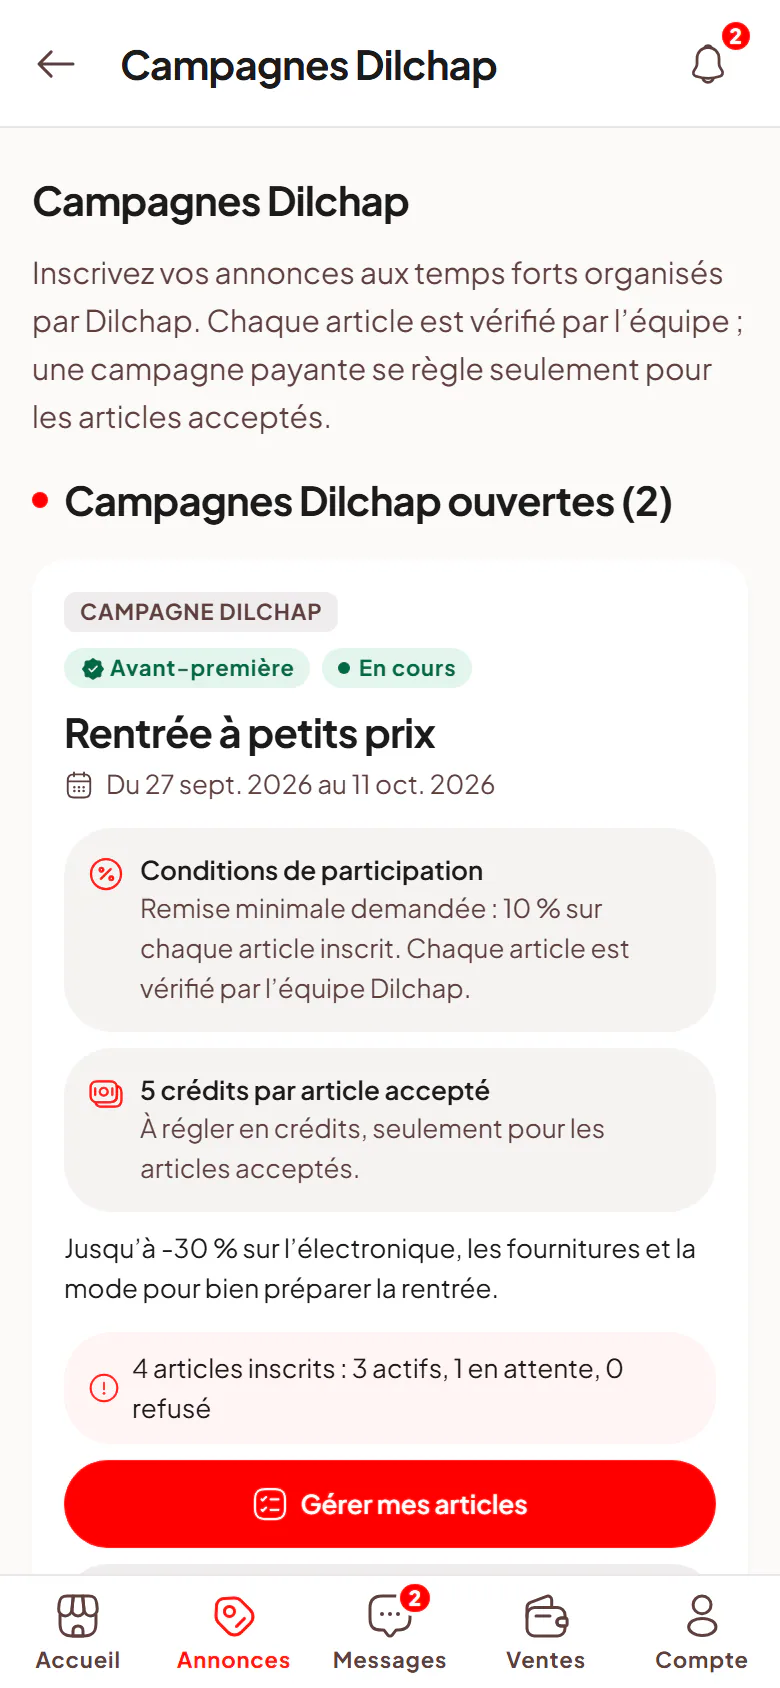
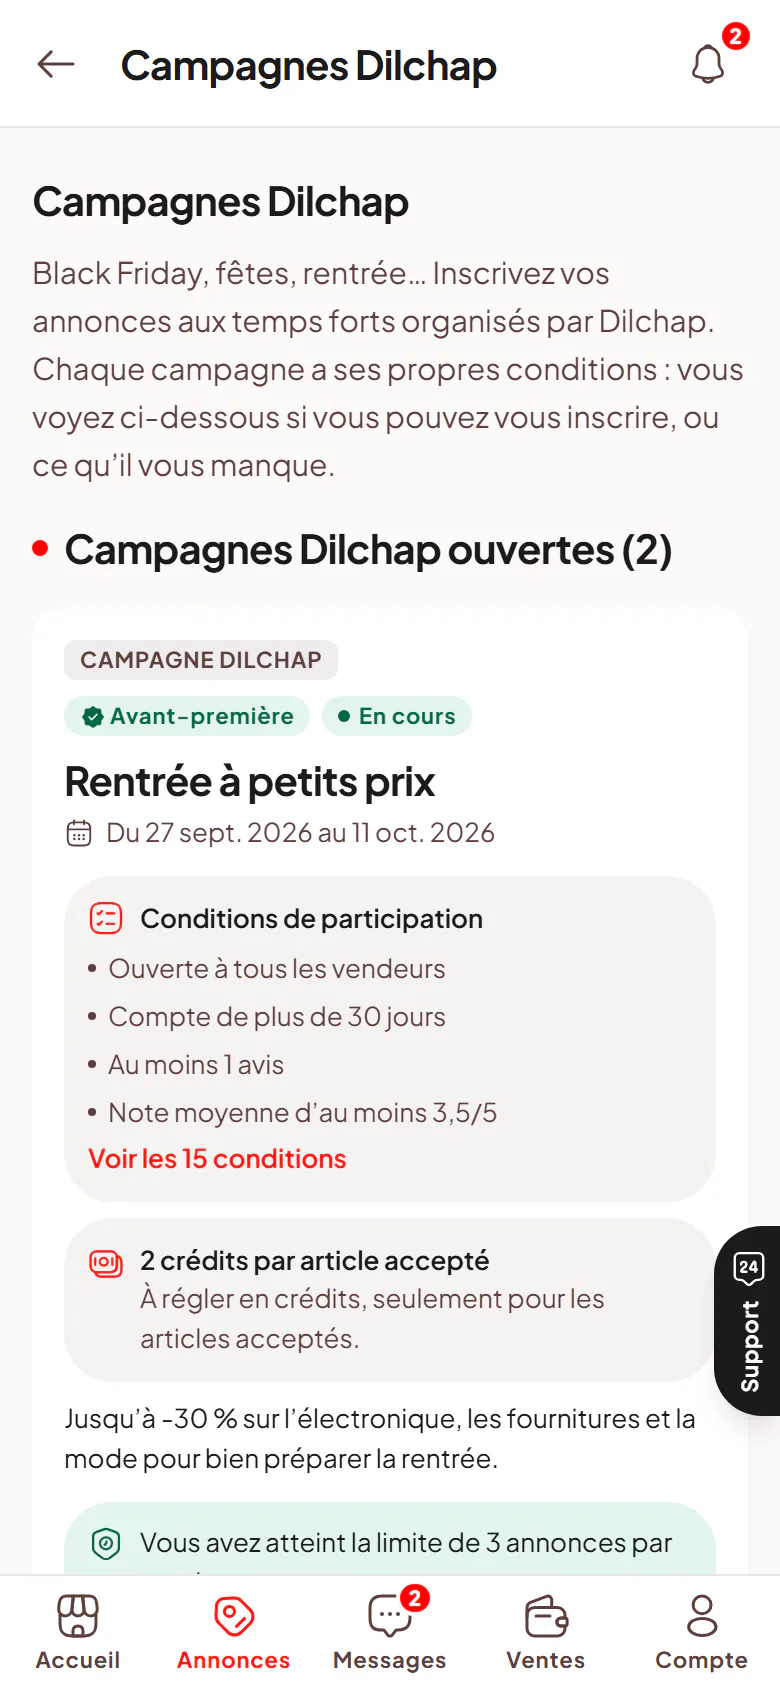
docs: help link on « Campagnes Dilchap », refreshed campaign captures (#189)

Changed region(s): [[0.0308, 0.154, 0.9538, 0.7085], [0.0615, 0.7393, 0.9231, 0.955], [0.8923, 0.7085, 1.0, 0.8626]]

diff --git a/src/pages/account/SellerCampaigns.tsx b/src/pages/account/SellerCampaigns.tsx
@@ -1,6 +1,7 @@
 import { useState } from 'react'
 import { useQuery } from '@apollo/client/react'
 import { AccountLayout } from './AccountLayout'
+import HelpLink from '../../components/HelpLink'
 import { CampaignJoin, CampaignsTab } from './ShopPromos'
 import { MY_SHOP_LISTINGS_QUERY, OPEN_CAMPAIGNS_QUERY, type OpenCampaign, type PromoItem, type ShopListing } from '../../graphql/shops'
 import type { AuthUser } from '../../graphql/auth'
@@ -26,7 +27,7 @@ export default function SellerCampaigns({ onNavigate, currentUser, onLogout }: P
   )
   return layout(<>
     <h1 className="m-0 text-headline-lg text-on-surface">Campagnes Dilchap</h1>
-    <p className="m-0 mt-1 text-body-md text-on-surface-variant">Black Friday, fêtes, rentrée… Inscrivez vos annonces aux temps forts organisés par Dilchap. Chaque campagne a ses propres conditions : vous voyez ci-dessous si vous pouvez vous inscrire, ou ce qu’il vous manque.</p>
+    <p className="m-0 mt-1 text-body-md text-on-surface-variant">Black Friday, fêtes, rentrée… Inscrivez vos annonces aux temps forts organisés par Dilchap. Chaque campagne a ses propres conditions : vous voyez ci-dessous si vous pouvez vous inscrire, ou ce qu’il vous manque. <HelpLink article="promotions-et-campagnes" className="ml-1 align-middle" /></p>
     <div className="mt-4">
       {data ? <CampaignsTab campaigns={data.openShopCampaigns} onJoin={(campaign, retry) => setJoining({ campaign, retry })} onChanged={() => void refetch()} onNavigate={onNavigate} /> : <div className="h-48 animate-pulse rounded-2xl bg-surface-container" />}
     </div>
